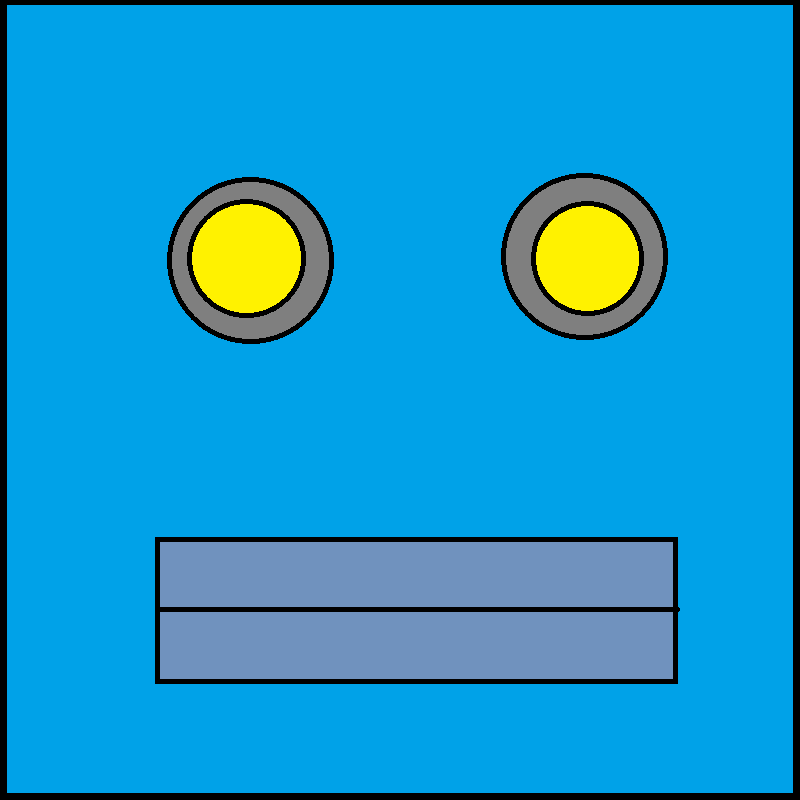
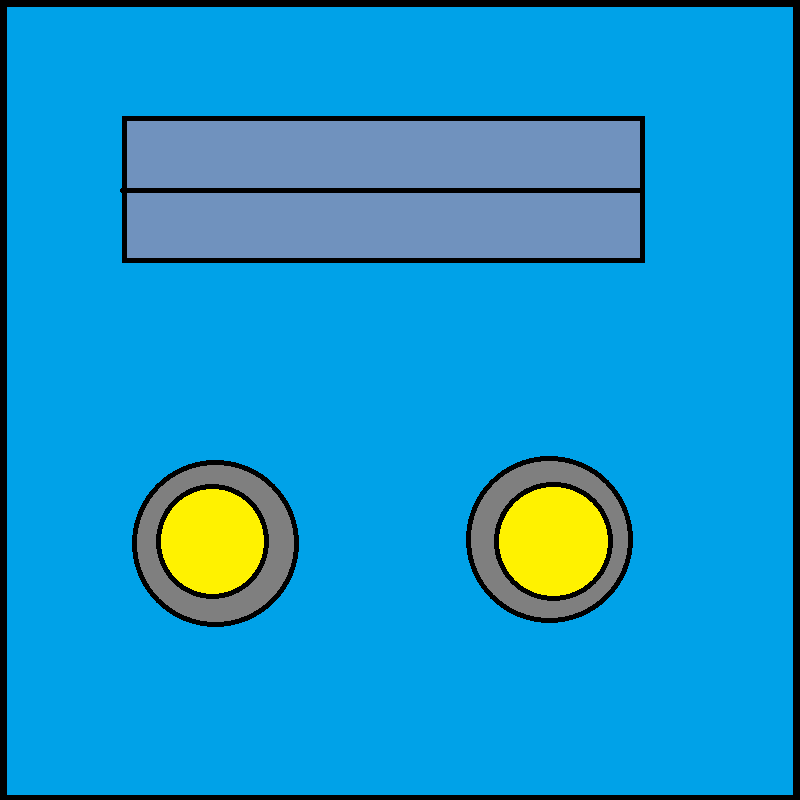
head movement

diff --git a/index.html b/index.html
@@ -14,9 +14,14 @@
         tick: function () {
           const rotation = this.el.object3D.rotation;
           const position = this.el.object3D.position;
-          var quaternion = new THREE.Quaternion();
-          this.el.object3D.getWorldQuaternion(quaternion);
-          socket.emit("move", { position, user: user, rotation, quaternion });
+
+          let newRotation = { x: rotation.x, y: rotation.y, z: rotation.z };
+
+          socket.emit("move", {
+            position: position,
+            user: user,
+            rotation: newRotation,
+          });
         },
       });
 
@@ -57,7 +62,10 @@
               head.setAttribute("height", "1.5");
               head.setAttribute("width", "1");
               head.setAttribute("id", `${element.user}_head`);
-              head.setAttribute("multisrc", "srcs:#right,#left,#top,#bottom,#back,#front");
+              head.setAttribute(
+                "multisrc",
+                "srcs:#right,#left,#top,#bottom,#front,#back"
+              );
 
               //create name
               var nameElement = document.createElement("a-text");
@@ -69,7 +77,7 @@
                   element.position.split(" ")[2]
                 }`
               );
-              nameElement.setAttribute("look-at","#camera");
+              nameElement.setAttribute("look-at", "#camera");
               nameElement.setAttribute("id", `${element.user}_name`);
 
               //find already spawned items
@@ -101,12 +109,18 @@
 
           var head = sceneEl.querySelector(`#${msg.user}_head`);
           if (head) {
-            //head.object3D.applyQuaternion(msg.quaternion);
-
             head.setAttribute(
               "position",
               `${msg.position.x + 25} ${msg.position.y + 3.5} ${msg.position.z}`
             );
+
+            head.object3D.rotation.set(
+              msg.rotation.x*-1,
+              msg.rotation.y*-1,
+              msg.rotation.z
+            );
+            head.object3D.rotation.x += Math.PI;
+
           } else {
             console.error("cant find user:", msg.user);
           }
@@ -115,13 +129,10 @@
           if (name) {
             name.setAttribute(
               "position",
-              `${msg.position.x+25} ${msg.position.y + 7} ${msg.position.z}`
+              `${msg.position.x + 25} ${msg.position.y + 7} ${msg.position.z}`
             );
 
-            name.setAttribute(
-              "scale",
-              `5 5 5`
-            );
+            name.setAttribute("scale", `5 5 5`);
           } else {
             console.error("cant find user:", msg.user);
           }
@@ -133,17 +144,17 @@
         <img id="plane" src="city.jpg" /><img id="sky" src="paris.jpg" />
         <img id="face" src="face.png" />
 
-        <img id="right" src="side.png">
-        <img id="left" src="side.png">
-        <img id="top" src="side.png">
-        <img id="bottom" src="side.png">
-        <img id="front" src="face.png">
-        <img id="back" src="side.png">
-
+        <img id="right" src="side.png" />
+        <img id="left" src="side.png" />
+        <img id="top" src="side.png" />
+        <img id="bottom" src="side.png" />
+        <img id="front" src="face.png" />
+        <img id="back" src="side.png" />
       </a-assets>
       <a-entity id="rig" position="25 3 0">
         <a-camera id="camera" rotation-reader></a-camera>
       </a-entity>
+
       <a-plane
         position="0 0 0"
         rotation="-90 0 0"

diff --git a/app.js b/app.js
@@ -53,6 +53,7 @@ io.on("connection", (socket) => {
   io.emit("guests", getClientsClean());
 
   socket.on("move", (msg) => {
+
     io.emit("move", msg);
   });
 
